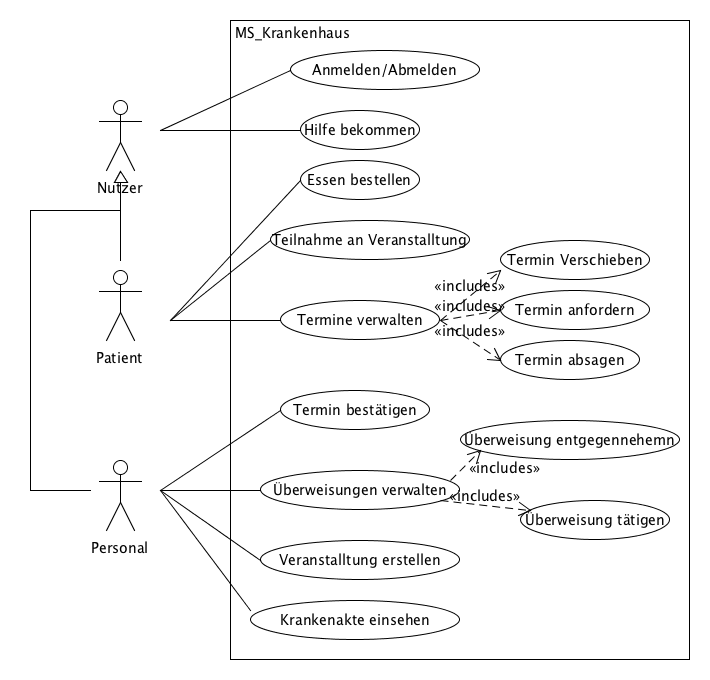
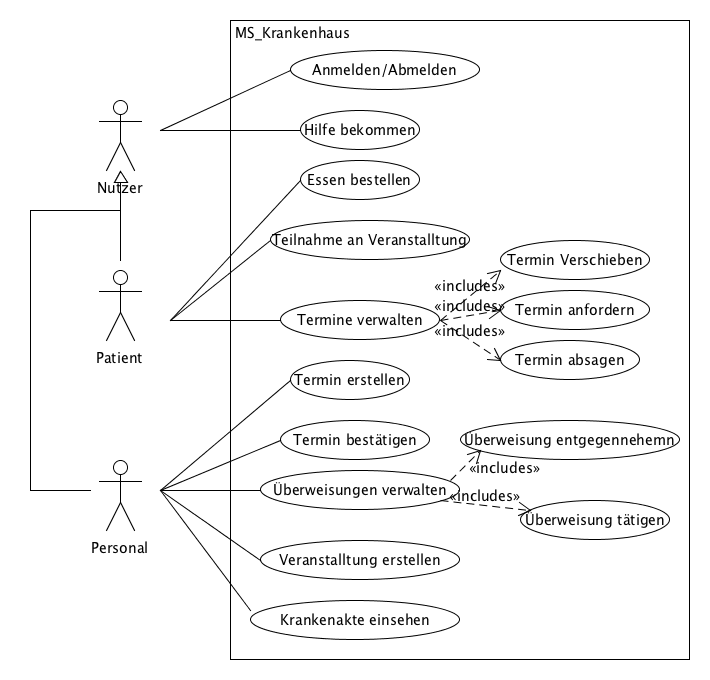
Mockups und Diagramme

Changed region(s): [[0.2479, 0.525, 0.6197, 0.7103], [0.2169, 0.7103, 0.2479, 0.7412]]

diff --git a/docs/jendrik_mueller/Spezifikation_Krankenhaus.md b/docs/jendrik_mueller/Spezifikation_Krankenhaus.md
@@ -6,32 +6,17 @@
 
 # 1 Einführung
 
-Das Krankehaus in der SmartCity stellt einen wesentlichen Faktor im Bereich der öffentlichen ärztlichen Versorgung dar. Ein zuverlässiges System kann die ärztliche Versorgung eines Patienten begleiten, um einen effizienten Informationsaustausch zu gewährleisten.  Somit kann eine Informationskette im Zusammenspiel mit Hausarzt und Rettungsdienst über die komplette Behandlungsphase des Patienten erfolgen. Das System dient zusätzlich als anlaufstelle für Bürger, die sich über Veranstelltungen im Krankehaus und dessen Abteilungen informieren wollen.
-
 ## 1.1 Beschreibung
 
-* Projektname
-* Darstellung der Produktvision in Prosa (5-10 Sätze)
-* Ziele
-* Für wen ist das Produkt/der Service?
-* Was ist das Bedürfnis? 
-* Was ist das Produkt/der Service?
-* Warum sollte der Kunde dieses Produkt/den Service „kaufen“ oder nutzen?
-* Im Gegensatz zu welchen anderen Produkten/Services steht dies?
-* Was macht dieses Produkt/der Service anders?
-* Warum ist das Projekt sinnvoll?
-* Welche Stakeholder sind betroffen und wie stehen Sie zu der Projektidee?
-* Welche alternativen Lösungsideen existieren für den identifizierten Bedarf?
-* Wie hoch sind Aufwand und erwarteter Nutzen und stehen sie in einem sinnvollen Verhältnis? (Lohnt sich das Projekt?)
-* Verfügen wir über die notwendigen Kompetenzen? (Umsetzbarkeit)
-* Welche Risiken und negativen Nebeneffekte sind zu erwarten?
+Das Krankehaus in der SmartCity stellt einen wesentlichen Faktor im Bereich der öffentlichen ärztlichen Versorgung dar. Ein zuverlässiges System kann die ärztliche Versorgung eines Patienten begleiten, um einen effizienten Informationsaustausch zu gewährleisten.  Somit kann eine Informationskette im Zusammenspiel mit Hausarzt und Rettungsdienst über die komplette Behandlungsphase des Patienten erfolgen. Das System dient zusätzlich als Anlaufstelle für Bürger, die sich über Veranstelltungen im Krankehaus und dessen Abteilungen informieren wollen.
 
 ## 1.2 Ziele
 
-- Anwendungsbereiche, Motivation, Umfang, Alleinstellungsmerkmale, Marktanforderungen
-- Informationen zu Zielbenutzergruppen und deren Merkmale (Bildung, Erfahrung, Sachkenntnis)
-- Abgrenzung (Was ist das Softwaresystem _nicht_)
-- ggfs. SWOT-Analyse
+Das System dient als schnittstellen zwischen Bürgern der SmartCity und dem medizinischen Personal des Krankenhauses. Es richtet sich somit an Bürger und Personal gleichermaßen und soll die Kommunikation zwischen diesen vördern.
+
+Bürger sollen über im Krankenhaus stattfindene Veranstalltungen informiert werden und an diesen Teilnehmen können. Die Bürger sollen sich ebenfalls über das Personal, Fachbereiche und medizinische Ausrüstung informieren und Termine vereinbareren können.
+
+Das System soll nicht der kompletten Verwaltung eines Krankenhauses dienen. Es ist dementspechend nicht für das Erstellen eines OP-Planes, der Verwaltung des technischen Personals und ähnlichem zuständig.
 
 # 2 Anforderungen
 
@@ -39,16 +24,8 @@ Das Krankehaus in der SmartCity stellt einen wesentlichen Faktor im Bereich der 
 
 | Funktion / Relevanz | Name | Kontakt / Verfügbarkeit | Wissen  | Interessen / Ziele  |
 |---|---|---|---|---|
-|  |   |   |    |   |
-
-
-### Beispiel
-
-| Funktion / Relevanz | Name | Kontakt / Verfügbarkeit | Wissen  | Interessen / Ziele  |
-|---|---|---|---|---|
-| Leiter der Bibliothek, Fachlicher Entscheider  |  Herr Bauer | Tel. 409000, Von 9-19 Uhr telefonisch erreichbar, Mitarbeit zu 30% möglich, Nürnberg  | Kennt das Altsystem aus der Anwendersicht, soll mit dem System arbeiten  | Vereinfachung der Ausleihprozesse  |
-| Administrator, Informationslieferant bzgl. Wartungsanforderungen  | Herr Heiner  | Heiner@gmx.net, Per E-Mail, immer erreichbar, Verfügbarkeit 50%, Nürnberg  | Vertraut mit vergleichbarer Verwaltungssoftware   |  Stabiles System, geringer Wartungsaufwand |
-| Product-Owner, Entscheider - als Koordinator der Stakeholderanforderungen   | Paul Ottmer  |  po@ottmer.de, Per E-Mail und tel. tagsüber, Verfügbarkeit 100%, Nürnberg  | Koordinator für die Inputs der Stakeholder  | ROI des Systems sicherstellen  |
+| Chefarzt der Dermatologie | Prof. Dr. Heinrich Heiler | Tel. 555 4312, E-Mail: heiler@krankenhaus.de, Von 6-20 Uhr telefonisch und per Mail erreichbar | Kennt das Altsystem, soll mit dem System arbeiten | Übersicht über die eigenen Patienten |
+| Bürger von SmartCity | Kurt Knoche | Tel. 555 336622, E-Mail: kKnoche@city.de, Von 7-18 Uhr telefonisch und per Mail erreichbar | Kennt das Altsystem | Vereinvaren eines Termins zur Nachbehandlung |
 
 ## 2.2 Funktionale Anforderungen
 
@@ -58,11 +35,13 @@ Das Krankehaus in der SmartCity stellt einen wesentlichen Faktor im Bereich der 
 
 ### 2.3.1 Rahmenbedingungen
 
-- Normen, Standards, Protokolle, Hardware, externe Vorgaben
+- Kommunikation mit anderen Microservices:
+  - Asynchron: RabbitMQ
+  - Synchron: gRPC
 
 ### 2.3.2 Betriebsbedingungen
 
-- Vorgaben des Kunden (z.B. Web Browser / Betriebssystem Versionen, Programmiersprache)
+- Verfügbar per Webzugriff mit einem aktuellen Browser (z.B. Google Chrome 81.0.4044)
 
 ### 2.3.3 Qualitätsmerkmale
 
@@ -70,32 +49,39 @@ Das Krankehaus in der SmartCity stellt einen wesentlichen Faktor im Bereich der 
 
 Qualitätsmerkmal | sehr gut | gut | normal | nicht relevant
 ---|---|---|---|---
-**Zuverlässigkeit** | | | | |
-Fehlertoleranz |X|-|-|-|
-Wiederherstellbarkeit |X|-|-|-|
-Ordnungsmäßigkeit |X|-|-|-|
-Richtigkeit |X|-|-|-|
-Konformität |-|X|-|-|
-**Benutzerfreundlichkeit** | | | | |
-Installierbarkeit |-|-|X|-|
-Verständlichkeit |X|-|-|-|
-Erlernbarkeit |-|X|-|-|
-Bedienbarkeit |-|X|-|-|
-**Performance** | | | | |
-Zeitverhalten |-|-|X|-|
-Effizienz|-|-|-|X|
-**Sicherheit** | | | | |
-Analysierbarkeit |X|-|-|-|
-Modifizierbarkeit |-|-|-|X|
-Stabilität |X|-|-|-|
-Prüfbarkeit |X|-|-|-|
+**Zuverlässigkeit** | | | | 
+Fehlertoleranz |X|-|-|-
+Wiederherstellbarkeit |X|-|-|-
+Ordnungsmäßigkeit |X|-|-|-
+Richtigkeit |X|-|-|-
+Konformität |-|X|-|-
+**Benutzerfreundlichkeit** | | | | 
+Installierbarkeit |-|-|X|-
+Verständlichkeit |X|-|-|-
+Erlernbarkeit |-|X|-|-
+Bedienbarkeit |-|X|-|-
+**Performance** | | | | 
+Zeitverhalten |-|-|X|-
+Effizienz|-|-|-|X
+**Sicherheit** | | | | 
+Analysierbarkeit |-|-|X|-
+Modifizierbarkeit |-|-|X|-
+Stabilität |X|-|-|-
+Prüfbarkeit |-|-|X|-
 
 ## 2.4 Graphische Benutzerschnittstelle
 
-- GUI-Mockups passend zu User Stories
-- Screens mit Überschrift kennzeichnen, die im Inhaltsverzeichnis zu sehen ist
-- Unter den Screens darstellen (bzw. verlinken), welche User Stories mit dem Screen abgehandelt werden
-- Modellierung der Navigation zwischen den Screens der GUI-Mockups als Zustandsdiagramm
+![Login](img/Login.png)
+
+![Übersicht](img/Übersicht.png)
+
+![Essen](img/Essen.png)
+
+![Personal](img/Personal.png)
+
+![Termine](img/Termine.png)
+
+![Veranstalltungen](/Users/jendrikmuller/Documents/Master/SGSE/Spezifikation/docs/jendrik_mueller/img/Veranstalltungen.png)
 
 ## 2.5 Anforderungen im Detail
 
@@ -141,6 +127,7 @@ Die Hilfe zur Anwendung muss jederzeit erreichbar sein.
 | Termin verschieben | Patient  | einen bestehenden Termin verschieben können | einen bestehenden Termin ein neuer Zeitpunkt zugewiesen wird | Termin verschiebbar | soll      |
 | Termin absagen     | Patient  | einen Termin absagen können                 | sodass ein vorhandener Termin wieder entfernt wird           | Termin löschen      | muss      |
 | Termin bestätigen  | Personal | Einen Termin bestätigen können              | um Patienten Termine zuweisen zu können                      | Termin zuweisen     | muss      |
+| Termin eintragen   | Personal | Einen Termin erstellen können               | perönlich mit dem Patienten vereinbarte Termine berücksichtigt werden | Termin erstellen    | muss      |
 
 
 
@@ -175,8 +162,7 @@ Die Hilfe zur Anwendung muss jederzeit erreichbar sein.
 
 ## 3.1 Systemübersicht
 
-- Systemarchitekturdiagramm ("Box-And-Arrow" Diagramm)
-- Kommunikationsprotokolle, Datenformate
+![boxArrow](img/boxArrow.png)
 
 ## 3.2 Softwarearchitektur
 
@@ -220,20 +206,16 @@ Die Hilfe zur Anwendung muss jederzeit erreichbar sein.
 
 ## 4.1 Annahmen
 
-- Nicht durch den Kunden definierte spezifische Annahmen, Anforderungen und Abhängigkeiten
-- Verwendete Technologien (Programmiersprache, Frameworks, etc.)
-- Aufteilung in Repositories gemäß Software- und Systemarchitektur und Softwarebbausteinen 
-- Einschränkungen, Betriebsbedingungen und Faktoren, die die Entwicklung beeinflussen (Betriebssysteme, Entwicklungsumgebung)
-- Interne Qualitätsanforderungen (z.B. Softwarequalitätsmerkmale wie z.B. Erweiterbarkeit)
+- Verwendete Technologien: HTML, JavaScript, Angular, PostgreSQL, gRPC, RabbitMQ, GraphQL, Python
+- Aufteilung in Repositories gemäß Software- und Systemarchitektur und Softwarebbausteinen
 
 ## 4.2 Verantwortlichkeiten
 
-- Zuordnung von Personen zu Softwarebausteinen aus Kapitel 3.1 und 3.2
-- Rollendefinition und Zuordnung
-
-| Softwarebaustein | Person(en) |
+| Softwarebaustein | Person(en)Frontend |
 |----------|-----------|
-| Komponente A | Thomas Mustermann |
+| Frontend | Jendrik Müller |
+| Backend | Jendrik Müller |
+| Dantenbank | Jendrik Müller |
 
 ### Rollen
 
@@ -250,23 +232,21 @@ Implementiert die funktionale Logik der Anwendung. Hierbei werden zudem diverse 
 
 | Name     | Rolle     |
 |----------|-----------|
-| Thomas Mustermann | Softwarearchitekt |
+| Jendrik Müller | Softwarearchitekt |
+| Jendrik Müller | Frontend-Entwickler |
+| Jendrik Müller | Backend-Entwickler |
+| Jendrik Müller | Datenbank-Entwickler |
 
 
 ## 4.3 Grober Projektplan
 
-- Meilensteine
-
 ### Meilensteine
-* KW 43 (21.10)
-  * Abgabe Pflichtenheft
-* KW 44 (28.10) / Projekt aufsetzen
-  * Repository Struktur
-* KW 45 (4.11) / Implementierung
-  * Implementierung #3 (Final)
-* KW 48 (18.12) / Abnahmetests
-  * manuelle Abnahmetestss
-  * Präsentation / Software-Demo
+- 11.05.2020
+  - Abgabe Pflichtenheft
+- 08.06.2020
+  - Abgabe Prototyp
+- 03.07.2020
+  - Softwareübergabe
 
 # 5 Anhänge
 
